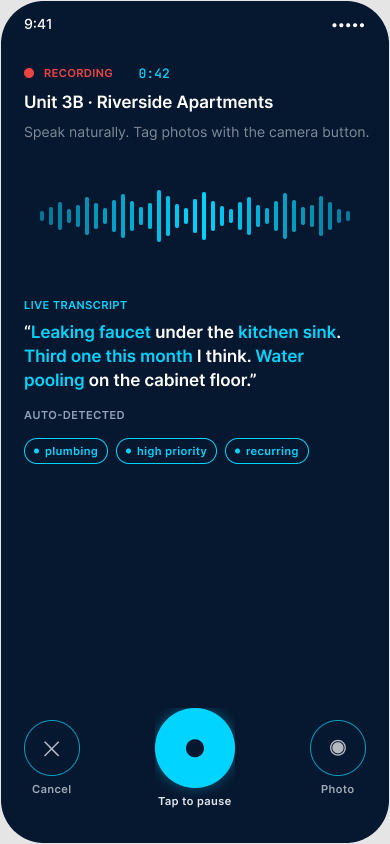
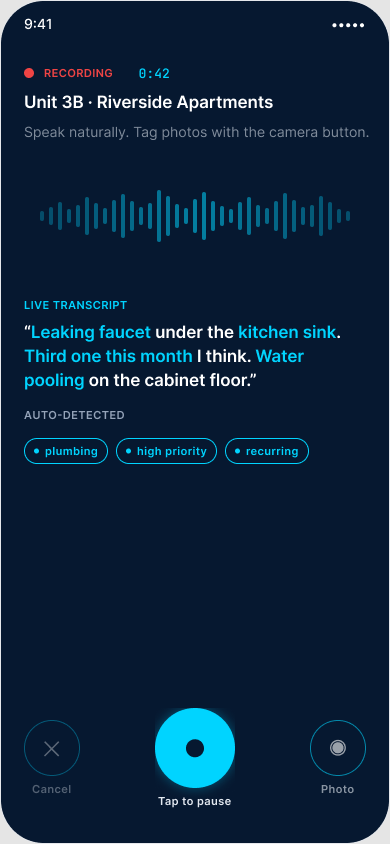
Apply design critique fixes
Mobile frames:
- F2: waveform opacity 0.55 so transcript with cyan entities dominates
- F2: Cancel button dimmed to 0.5 (Photo at 0.85) for clear hierarchy
- F3: confidence chip refined to "● High · 94%"

Microsite:
- 4 secondary screens now use the editorial floating treatment
  (cyan glow + soft shadow + ring) consistent with the hero
- Timeline (1./2./3.) moved BELOW the demo as a horizontal row so the
  reader watches first, reads after — eye doesn't have to choose

diff --git a/app/page.tsx b/app/page.tsx
@@ -85,36 +85,16 @@ export default function Home() {
                   month.
                 </span>
               </p>
-
-              <div className="mt-9 grid grid-cols-3 gap-5 max-w-md">
-                <div>
-                  <div className="text-[12px] font-semibold tracking-[0.18em] text-accent-ai">
-                    1.
-                  </div>
-                  <div className="text-[14px] mt-1 text-text-on-navy/85 leading-snug">
-                    Speak<br />naturally
-                  </div>
-                </div>
-                <div>
-                  <div className="text-[12px] font-semibold tracking-[0.18em] text-accent-ai">
-                    2.
-                  </div>
-                  <div className="text-[14px] mt-1 text-text-on-navy/85 leading-snug">
-                    AI parses<br />entities live
-                  </div>
-                </div>
-                <div>
-                  <div className="text-[12px] font-semibold tracking-[0.18em] text-accent-ai">
-                    3.
-                  </div>
-                  <div className="text-[14px] mt-1 text-text-on-navy/85 leading-snug">
-                    Pattern<br />detected
-                  </div>
-                </div>
-              </div>
             </div>
 
             <FieldCopilotDemo />
+          </div>
+
+          {/* Timeline below the demo — eye watches first, reads after */}
+          <div className="mt-16 lg:mt-20 grid grid-cols-3 gap-6 sm:gap-10 max-w-3xl mx-auto">
+            <TimelineStep n="1" label="Speak naturally" />
+            <TimelineStep n="2" label="AI parses entities live" />
+            <TimelineStep n="3" label="Pattern detected" />
           </div>
         </div>
       </section>
@@ -181,17 +161,24 @@ export default function Home() {
           </div>
         ))}
 
-        {/* The other 4 */}
+        {/* The other 4 — editorial floating, consistent with hero treatment */}
         <div className="grid sm:grid-cols-2 gap-y-16 gap-x-10">
           {SCREENS.filter((s) => !s.hero).map((s) => (
             <div key={s.src}>
-              <div className="rounded-3xl bg-bg-muted p-6 sm:p-8 flex items-center justify-center mb-6">
+              <div className="relative flex items-center justify-center py-8 mb-6">
+                {/* Subtle cyan glow — softer than the hero */}
+                <div
+                  aria-hidden
+                  className="absolute inset-0 flex items-center justify-center pointer-events-none"
+                >
+                  <div className="w-[70%] aspect-square bg-accent-ai/10 rounded-full blur-[60px]" />
+                </div>
                 <Image
                   src={s.src}
                   alt={s.label}
                   width={390}
                   height={844}
-                  className="rounded-[44px] shadow-xl max-w-[320px] w-full h-auto"
+                  className="relative rounded-[44px] shadow-[0_20px_40px_-15px_rgba(11,37,64,0.2)] ring-1 ring-bg-deep/5 max-w-[320px] w-full h-auto"
                 />
               </div>
               <div className="text-[11px] font-semibold tracking-[0.18em] text-text-tertiary mb-2 uppercase">
@@ -373,6 +360,20 @@ function Stat({ value, label }: { value: string; label: string }) {
         {value}
       </div>
       <div className="text-[12px] text-text-tertiary leading-snug mt-0.5">
+        {label}
+      </div>
+    </div>
+  );
+}
+
+function TimelineStep({ n, label }: { n: string; label: string }) {
+  return (
+    <div className="relative pt-4 border-t border-text-on-navy/15">
+      <div className="absolute -top-px left-0 w-8 h-px bg-accent-ai" />
+      <div className="text-[12px] font-semibold tracking-[0.18em] text-accent-ai mb-1.5">
+        {n}.
+      </div>
+      <div className="text-[15px] text-text-on-navy/90 leading-snug">
         {label}
       </div>
     </div>